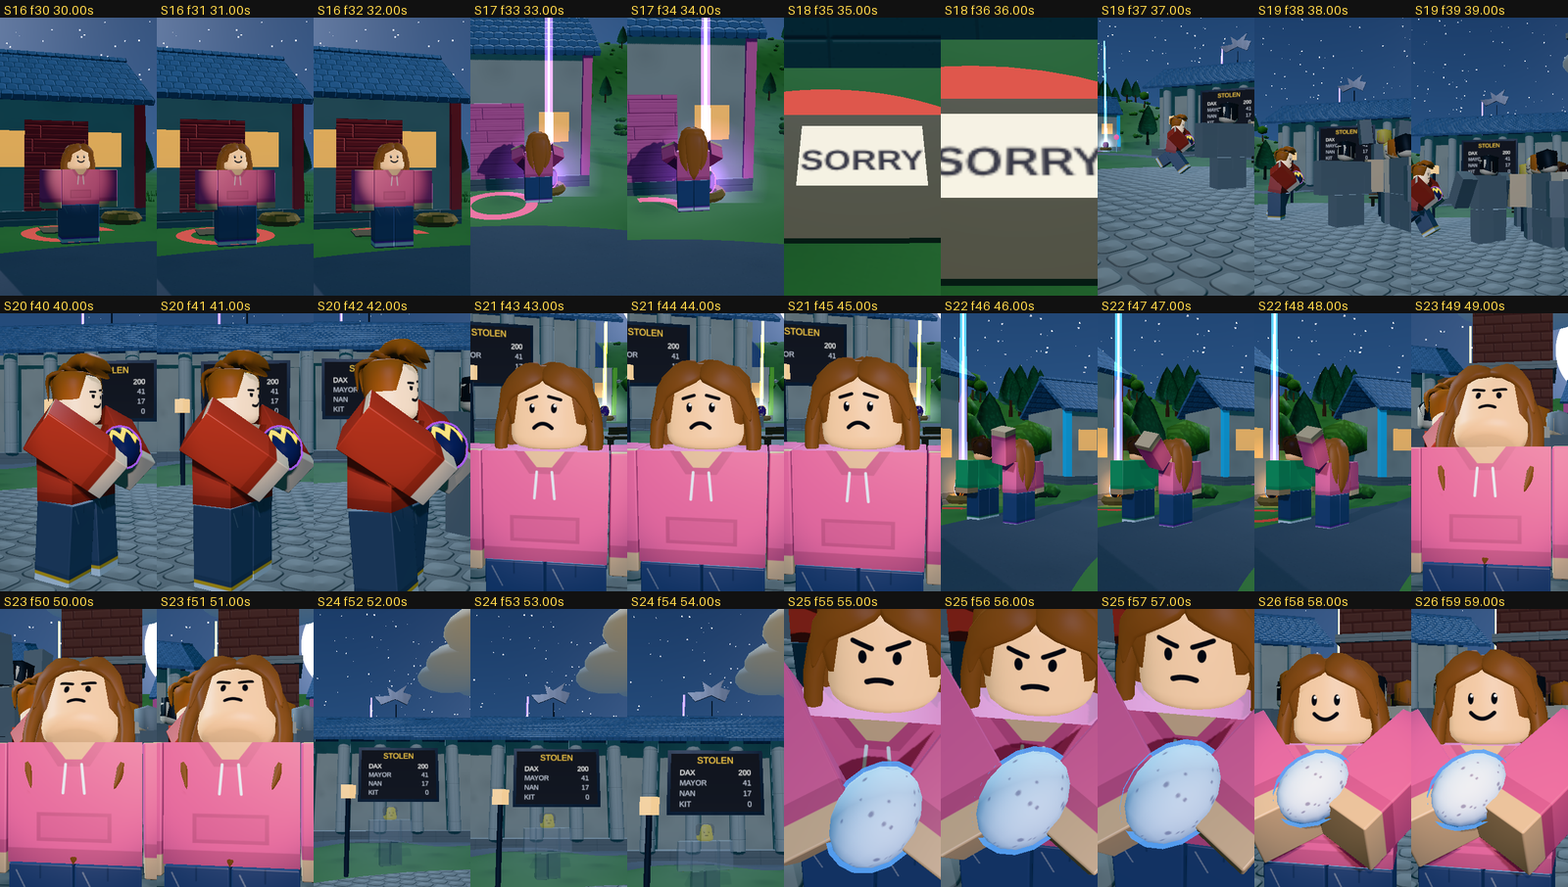
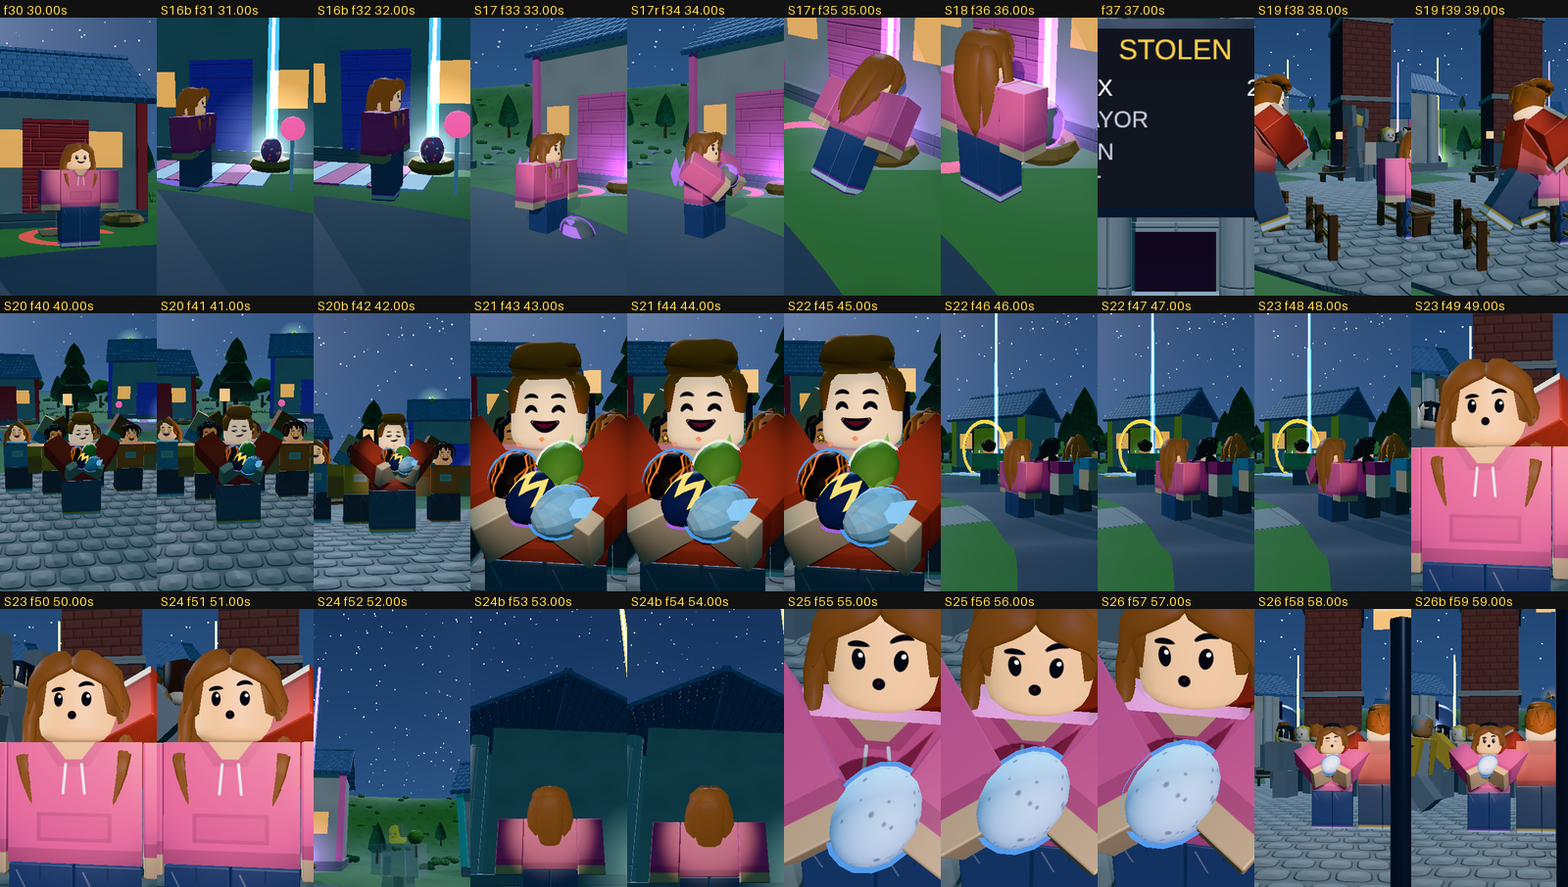
Egg preview fixes: owner shot rules (warnings), 74-shot table, nest rebuild, dragon face/baby, hair clamp; plan PASS; 1 fps preview
Claude-Session: https://claude.ai/code/session_01J6UjxwALwUXzwUnfoeqYWB

diff --git a/stories/egg/world.js b/stories/egg/world.js
@@ -180,8 +180,8 @@ export function build(scene, {P, B, A, M, PR, TR, BI, V, W, look, spec}) {
   const layer = (n, r0, r1, y, size, col, emi, seed) => { const RR = B.rng(seed), gs = [];
     for (let i = 0; i < n; i++) { const a = RR() * Math.PI * 2, r = r0 + RR() * (r1 - r0), g0 = new T.IcosahedronGeometry(size * (.6 + RR() * .7), 2); g0.deleteAttribute('uv'); g0.deleteAttribute('normal'); const g = mergeVertices(g0);
       g.scale(1.7, .42 + RR() * .2, 1.7); g.translate(Math.sin(a) * r, y + RR() * 3, Math.cos(a) * r); gs.push(g); }
-    const m = new T.Mesh((x => { x.computeVertexNormals(); return x; })(mergeGeometries(gs)), new T.MeshLambertMaterial({color: col, emissive: emi, emissiveIntensity: .5})); m.receiveShadow = true; return m; };
-  nest.add(layer(26, 14, 70, -7, 13, cb.palette.grass, '#e8b88a', 21), layer(34, 60, 170, -16, 22, '#fde7d2', '#f0a878', 22), layer(30, 160, 340, -30, 40, '#f6d2c0', '#e89a7a', 23));   // near, mid, far banks
+    const m = new T.Mesh((x => { x.computeVertexNormals(); return x; })(mergeGeometries(gs)), new T.MeshLambertMaterial({color: col, emissive: emi, emissiveIntensity: .22})); m.receiveShadow = true; return m; };
+  nest.add(layer(26, 30, 80, -15, 9, '#ffffff', '#ffe2c4', 21), layer(34, 60, 170, -16, 22, '#fff4ea', '#ffc9a0', 22), layer(30, 160, 340, -30, 40, '#ffe8dc', '#f0a88a', 23));   // white tops, warm sunrise underlight   // near, mid, far banks
   const bowl0 = new T.CylinderGeometry(16, 10, 6, 40, 1, true); bowl0.translate(0, -1.5, 0);
   const bowl = new T.Mesh(bowl0, new T.MeshPhongMaterial({color: '#a8763e', map: M.patternTexture('thatch'), side: T.DoubleSide, shininess: 4})); nest.add(bowl);
   const floorN = new T.Mesh(new T.CircleGeometry(10.5, 40), new T.MeshPhongMaterial({color: '#c9a064', map: M.patternTexture('thatch'), shininess: 4})); floorN.rotation.x = -Math.PI / 2; floorN.position.y = -4.4; nest.add(floorN);

diff --git a/stories/egg/gen.py b/stories/egg/gen.py
@@ -109,21 +109,21 @@ shot('S15b-dawn', on(9, 8), 'wide', 'push', 'bases', 'Gone by morning: an empty 
 kb = B[0]; KIT_B = [kb['front'][0], kb['front'][1]]
 shot('S16-kit', on(10), 'medium', 'push', 'kitbase', 'Then there is Kit, eleven: her base is a mat.', subject='kit', see=['kit'],
      **{'from': cam([KIT_B[0] + kb['n'][0] * 8 + 2, 3.5, KIT_B[1] + kb['n'][1] * 8], [KIT_B[0], 3, KIT_B[1]], 40)}, fit={'actor': 'kit', 'height': .36, 'part': 'full', 'y': .62}, shadowRadius=16)
-b11 = B[11]; WALK11 = bp(11, 4.5, -6)
+b11 = B[11]; WALK11 = bp(11, 3.2, -3.4); KMID = [WALK11[0] + b11['s'][0] * 2.4, WALK11[1] + b11['s'][1] * 2.4]
 shot('S16b-never', on(11, 3), 'wide', 'push', 'bases', 'Kit has never stolen anything: she walks right past a glowing egg.', see=['kit'],
-     **{'from': cam([WALK11[0] + b11['n'][0] * 13 + b11['s'][0] * 6, 5, WALK11[1] + b11['n'][1] * 13 + b11['s'][1] * 6], [B[11]['nest'][0], 2, B[11]['nest'][2]], 46),
-        'to': cam([WALK11[0] + b11['n'][0] * 11.5 + b11['s'][0] * 5.5, 4.6, WALK11[1] + b11['n'][1] * 11.5 + b11['s'][1] * 5.5], [B[11]['nest'][0], 2, B[11]['nest'][2]], 44)}, shadowRadius=24)
+     **{'from': cam([WALK11[0] + b11['n'][0] * 13 + b11['s'][0] * 6, 5, WALK11[1] + b11['n'][1] * 13 + b11['s'][1] * 6], [KMID[0], 2.4, KMID[1]], 46),
+        'to': cam([WALK11[0] + b11['n'][0] * 11.5 + b11['s'][0] * 5.5, 4.6, WALK11[1] + b11['n'][1] * 11.5 + b11['s'][1] * 5.5], [KMID[0], 2.4, KMID[1]], 44)}, shadowRadius=24)
 g5 = B[5]; N5 = g5['nest']; GE = [N5[0] + g5['n'][0] * 7 + 2.5, N5[2] + g5['n'][1] * 7]; K5 = [N5[0] + g5['n'][0] * 2.3, N5[2] + g5['n'][1] * 2.3]
 shot('S17-found', on(12), 'medium', 'push', 'bases', 'She found an egg once: Kit picks the Geode egg out of the grass.', subject='kit', see=['kit'],
      **{'from': cam([GE[0] + 3, 3.2, GE[1] + 6], [GE[0] - .8, 2.2, GE[1]], 40)}, fit={'actor': 'kit', 'height': .4, 'part': 'full', 'y': .6}, shadowRadius=14)
-CK5 = [K5[0] + g5['n'][0] * 2.2 + g5['s'][0] * 4.2, K5[1] + g5['n'][1] * 2.2 + g5['s'][1] * 4.2]
+CK5 = [K5[0] + g5['n'][0] * 6.5 + g5['s'][0] * 8.5, K5[1] + g5['n'][1] * 6.5 + g5['s'][1] * 8.5]
 shot('S17r-return', on(12, 5), 'close', 'push', 'bases', 'She returned it, with a sorry note: the egg back in its nest, then the folded note.', see=['kit'],
-     **{'from': cam([CK5[0], 3.6, CK5[1]], [(N5[0] + K5[0]) / 2, 1.9, (N5[2] + K5[1]) / 2], 38), 'to': cam([CK5[0] - g5['s'][0] * .6, 3.3, CK5[1] - g5['s'][1] * .6], [(N5[0] + K5[0]) / 2, 1.7, (N5[2] + K5[1]) / 2], 36)}, shadowRadius=10)
+     **{'from': cam([CK5[0], 7.2, CK5[1]], [(N5[0] + K5[0]) / 2, 1.6, (N5[2] + K5[1]) / 2], 40), 'to': cam([CK5[0] - g5['s'][0] * 1.2, 6.8, CK5[1] - g5['s'][1] * 1.2], [(N5[0] + K5[0]) / 2, 1.5, (N5[2] + K5[1]) / 2], 38)}, shadowRadius=10)
 shot('S18-zero', on(13), 'insert', 'push', 'square', 'Her score is zero: KIT 0 at the bottom of the scoreboard.', see=[],
      **{'from': cam([NB(20)[0], 6.2, NB(20)[2]], [BOARD[0], 6.6, BOARD[2]], 24), 'to': cam([NB(18)[0], 6.1, NB(18)[2]], [BOARD[0], 6.4, BOARD[2]], 24)}, shadowRadius=12)
 FENCE = [-12, 9]
 shot('S19-vault', F(on(13, 4), -2), 'medium', 'push', 'square', 'It has always been zero: Dax vaults the fence side-on, mid-air, four eggs in his arms.', see=['dax'],
-     **{'from': cam([FENCE[0] + .5, 3.4, FENCE[1] + 12], [FENCE[0] + .5, 3.2, FENCE[1]], 44), 'to': cam([FENCE[0] + .8, 3.4, FENCE[1] + 11], [FENCE[0] + .8, 3.2, FENCE[1]], 44)}, shadowRadius=16)
+     **{'from': cam([FENCE[0] - 2.4, 3.4, FENCE[1] + 11.5], [FENCE[0] + .5, 3.2, FENCE[1]], 46), 'to': cam([FENCE[0] - 2.1, 3.4, FENCE[1] + 10.6], [FENCE[0] + .8, 3.2, FENCE[1]], 46)}, shadowRadius=16)
 DAX1 = [4, 8]
 shot('S20-dax', on(14), 'wide', 'push', 'square', 'Her big brother Dax is number one: kids gather round him on the square.', see=['dax'],
      **{'from': cam([6, 6.5, -7], [4, 3, 9], 48), 'to': cam([5.6, 6, -5.5], [4, 3, 9], 46)}, shadowRadius=26)
@@ -192,16 +192,16 @@ shot('S37a-bell', on(33), 'wide', 'push', 'square', 'The bell rang twelve times:
      **{'from': cam([-4, 15, 24], [0, 3, 0], 46), 'to': cam([-3.6, 14, 22], [0, 3, 0], 44)}, shadowRadius=40)
 shot('S37-down', on(34), 'close', 'push', 'square', 'The shadow came down: Kit looks up in wonder, the shadow crossing her face.', subject='kit', see=['kit'],
      **{'from': cam([-.4, 3.9, 6.6], [0, 4.9, 0], 36)}, fit={'actor': 'kit', 'height': .48, 'part': 'head', 'y': .4}, shadowRadius=10)
-LOWC = [-1.5, .9, 2.6]; LOWT = add(LOWC, [MOON[0] * 50, MOON[1] * 50 + 8, MOON[2] * 50]); MOM37 = add(LOWC, [MOON[0] * 92, MOON[1] * 92 - 4, MOON[2] * 92])
+LOWC = [-1.5, .9, 2.6]; LOWT = add(LOWC, [MOON[0] * 50, MOON[1] * 50 + 8, MOON[2] * 50]); MOM37 = add(LOWC, [MOON[0] * 110, MOON[1] * 110 - 2, MOON[2] * 110])
 shot('S37b-wings', on(34, 4), 'wide', 'heroLow', 'square', 'Its wings were as wide as the street: from Kit\'s spot, her full silhouette against the moon, wings spanning the frame, eyes glowing.', see=['mother'], ground=0,
      **{'from': cam(LOWC, LOWT, 64), 'to': cam([LOWC[0] - .2, .8, LOWC[2] + .4], add(LOWT, [0, 2, 0]), 66)}, shadowRadius=60)
 shot('S38-bird', F(on(35), -2), 'close', 'push', 'square', 'It was not a bird: Kit\'s face lit by two glowing eyes.', subject='kit', see=['kit'],
      **{'from': cam([-6, 4.4, 2.5], [0, 4.5, 0], 36)}, fit={'actor': 'kit', 'height': .48, 'part': 'head', 'y': .4}, shadowRadius=10)
 shot('S39-dragon', F(on(35, 4), 2), 'medium', 'push', 'square', 'It was a dragon. Very, very gently: the mother lowers her head to Kit (the twist; Kit in wonder).', see=['mother', 'kit'],
-     **{'from': cam([-7, 4.5, -20], [-7, 6.5, 0], 56), 'to': cam([-6.5, 4.3, -18.5], [-6.5, 6.3, 0], 54)}, shadowRadius=30)
-LIFT0 = [0, 30, 6]
+     **{'from': cam([-3.5, 4.2, -15.5], [-3.5, 5.2, 0], 58), 'to': cam([-3.3, 4.0, -14.5], [-3.3, 5.0, 0], 56)}, shadowRadius=30)
+LIFT0 = [0, 30, 6]; LIFTK = [LIFT0[0] + 18, LIFT0[1], LIFT0[2]]   # front claws: 18 ahead (she flies east, away from the clock tower)
 shot('S40-lift', on(36, 4), 'close', 'push', 'square', 'It lifted Kit into the clouds: Kit in the mother\'s front claws, the town small below.', see=['kit', 'mother'],
-     **{'from': cam([LIFT0[0] + 25, LIFT0[1] + 3, LIFT0[2] + 4.5], [LIFT0[0] + 18, LIFT0[1] - .5, LIFT0[2]], 50), 'to': cam([LIFT0[0] + 34, LIFT0[1] + 8, LIFT0[2] + 4.5], [LIFT0[0] + 27, LIFT0[1] + 5, LIFT0[2]], 50)}, shadowRadius=40)
+     **{'from': cam([LIFTK[0] - 8, LIFTK[1] + 4.5, LIFTK[2] + 3.5], [LIFTK[0] + 1.5, LIFTK[1] - .5, LIFTK[2]], 50), 'to': cam([LIFTK[0] - 8 + 8.5, LIFTK[1] + 4.5 + 5.5, LIFTK[2] + 3.5], [LIFTK[0] + 1.5 + 8.5, LIFTK[1] - .5 + 5.5, LIFTK[2]], 50)}, shadowRadius=40)
 # B8 second surprise ---------------------------------------------------------------------------------------------------------------
 N = NEST; FL = N[1] - 4.4   # nest floor
 RING = ['kit', 'dax', 'lead', 'little', 'r1', 'r2', 'r3', 'r4', 'r5']; RR = 6.2
@@ -209,9 +209,9 @@ SEAT = {n: [N[0] + RR * math.sin(math.radians(180 + 40 * k)), FL, N[2] + RR * ma
 SEAT = {n: [round(v, 3) for v in p] for n, p in SEAT.items()}
 seat_yaw = lambda n: yaw_to(SEAT[n], N)
 shot('S41-nest', on(37), 'wide', 'drone', 'nest', 'Money shot: drone low over the sunrise clouds onto a woven nest the size of the town, kids and baby dragons in a ring, the mother curled outside.', see=[], spectacle=True, look='goldenHour',
-     path=[[N[0] + 30, N[1] + 6, N[2] + 120], [N[0] + 18, N[1] + 6, N[2] + 74], [N[0] + 8, N[1] + 9, N[2] + 34]], targets=[[N[0], N[1] - 4, N[2] + 1], [N[0], N[1] - 4, N[2] + 1]], **{'from': {'fov': 50}}, shadowRadius=60)
+     ease='linear', path=[[N[0] + 30, N[1] + 8, N[2] + 120], [N[0] + 18, N[1] + 10, N[2] + 72], [N[0] + 8, N[1] + 12.5, N[2] + 38]], targets=[[N[0], N[1] - 4, N[2] + 1], [N[0], N[1] - 4, N[2] + 1]], **{'from': {'fov': 50}}, shadowRadius=60)
 shot('S41b-ring', on(38), 'medium', 'push', 'nest', 'Every missing kid was in it: the ring of kids, a baby dragon in every lap.', see=['little', 'lead', 'kit'], look='goldenHour',
-     **{'from': cam([N[0] + 2, N[1] + 10, N[2] + 17], [N[0], FL + 1, N[2] + 1], 50), 'to': cam([N[0] + 1.6, N[1] + 9, N[2] + 15.5], [N[0], FL + 1, N[2] + 1], 50)}, shadowRadius=20)
+     **{'from': cam([N[0] + .5, N[1] + 5.5, N[2] + 12.2], [N[0], FL + 1.4, N[2] - 2], 50), 'to': cam([N[0] + .4, N[1] + 5.2, N[2] + 11.6], [N[0], FL + 1.4, N[2] - 2], 50)}, shadowRadius=20)
 DAXN = SEAT['dax']
 shot('S42-daxnest', F(on(38, 6), -2), 'close', 'push', 'nest', 'Even Dax: a hatchling asleep on his head.', subject='dax', see=['dax'], look='goldenHour',
      **{'from': cam(add(DAXN, [(N[0] - DAXN[0]) * .7, 3.4, (N[2] - DAXN[2]) * .7]), add(DAXN, [0, 2.2, 0]), 40)}, fit={'actor': 'dax', 'height': .55, 'part': 'full', 'y': .5, 'h': 3.6}, shadowRadius=12)
@@ -233,7 +233,7 @@ shot('S46b-sneeze', on(43, 3), 'close', 'push', 'nest', 'A tiny dragon sneezed o
 shot('S47a-mother', on(44), 'wide', 'push', 'nest', 'The mother was not taking thieves: she lies curled round the outside of the nest.', see=['mother'], look='goldenHour',
      **{'from': cam([N[0] + 34, N[1] + 22, N[2] + 46], [N[0] - 6, N[1], N[2]], 50), 'to': cam([N[0] + 30, N[1] + 20, N[2] + 42], [N[0] - 6, N[1], N[2]], 48)}, shadowRadius=60)
 shot('S47b-sitters', on(45), 'medium', 'push', 'nest', 'She was taking babysitters: kids with sleeping babies, her head resting on the rim behind them.', see=['mother', 'little'], look='goldenHour',
-     **{'from': cam([N[0] + 3, N[1] + 5.5, N[2] + 22], [N[0] - 1, FL + 3, N[2] + 4], 48), 'to': cam([N[0] + 2.6, N[1] + 5.2, N[2] + 20.5], [N[0] - 1, FL + 3, N[2] + 4], 48)}, shadowRadius=30)
+     **{'from': cam([N[0] - 4, N[1] + 3.5, N[2] + 11.5], [N[0] + 2, FL + 4, N[2] - 10], 50), 'to': cam([N[0] - 3.7, N[1] + 3.4, N[2] + 10.9], [N[0] + 2, FL + 4, N[2] - 10], 50)}, shadowRadius=30)
 # B9 flip --------------------------------------------------------------------------------------------------------------------------
 shot('S48-sunrise', on(46), 'wide', 'crane', 'square', 'Dax came home the next morning: dragons fly in over the square at sunrise.', see=['dax'], look='goldenHour',
      ease='inOutSine', **{'from': cam([3, 5, -8], [0, 16, 30], 52), 'to': cam([3, 7.5, -6.5], [0, 18, 30], 51)}, shadowRadius=60)
@@ -253,7 +253,7 @@ shot('S51-rhyme', on(51), 'wide', 'drone', 'square', 'And at midnight everybody 
 
 # ---- cast ----------------------------------------------------------------------------------------------------------------------
 t = {s['id']: s['at'] for s in S}
-def marks(*m): return [[round(a, 3), p] for a, p in m]
+def marks(*m): return [[round(a, 3), p] for a, p in sorted(m, key=lambda x: x[0])]
 kitE = lambda w: f'egg:plain:{w}'
 def sqy(x, z, y=0): return {'at': 'square', 'offset': [x, y, z]}
 face_cam = lambda p, c: yaw_to(p, c)
@@ -266,14 +266,13 @@ FACEMAP = [[12, 'kit', 'polite'], [15, 'dax', 'laugh'], [16, 'kit', 'polite'], [
 SNEEZE = round(on(43, 6) + .08, 3)
 Q5, CUT0 = Q(5), [Q(4)[0] + b9['s'][0] * 3.2, Q(4)[1] + b9['s'][1] * 3.2]
 N9 = [b9['nest'][0], b9['nest'][2]]
-LIFTK = [LIFT0[0] + 18, LIFT0[1], LIFT0[2]]   # front claws: 18 ahead (she flies east, away from the clock tower)
 _c = [DRONE['path'][1][i] + (DRONE['path'][2][i] - DRONE['path'][1][i]) * .43 for i in range(3)]   # the drone camera near t = 1.2 s
 MOM0 = [round(_c[i] + MOON[i] * 320 - ([PERP[0], 0, PERP[1]][i]) * 70 * 1.2, 2) for i in range(3)]   # crosses the moon at ~1.2 s
 cast = {
   'kit': {'style': 'v2', 'troupe': 'SECOND', 'role': 'Kit', 'outfit': {'recipe': 'hoodie', 'main': '#ff7aa8', 'accent': '#ffffff', 'legs': '#4a5a80', 'trim': '#9b59b6'},
     **sq(*K0), 'yaw': yaw_to(K0, [K0[0] - D2[0], K0[1] - D2[1]]),
     'marks': marks((0, {**sq(*K0), 'yaw': yaw_to(K0, [K0[0] - D2[0], K0[1] - D2[1]])}), (t['S16-kit'], {'at': 'kitBase', 'yaw': yaw_to(KIT_B, [KIT_B[0] + kb['n'][0], KIT_B[1] + kb['n'][1]])}),
-      (t['S16b-never'], {**sq(*WALK11), 'yaw': yaw_to([0, 0], b11['s']), 'travel': {'dir': b11['s'], 'speed': 1.7, 'max': 5}}),
+      (t['S16b-never'], {**sq(*WALK11), 'yaw': yaw_to([0, 0], b11['s']), 'travel': {'dir': b11['s'], 'speed': 1.6, 'max': 4.5}}),
       (t['S17-found'], {**sq(GE[0] - 1.3, GE[1]), 'yaw': 90}), (t['S17r-return'], {**sq(*K5), 'yaw': yaw_to(K5, [N5[0], N5[2]])}),
       (t['S18-zero'], {**sq(-8, 9), 'yaw': 0}), (t['S22-queue'], {**sq(*Q5), 'yaw': yaw_to(Q5, N9)}), (t['S23-notice'], {**sq(*K2), 'yaw': 0}),
       (t['S24b-vane'], {**sq(*KV), 'yaw': yaw_to(KV, [VANE[0], VANE[2]])}), (t['S25-cold'], {**sq(*K2), 'yaw': 0}),
@@ -307,10 +306,10 @@ cast = {
     'tools': [[0, 'egg:storm'], [t['S10-wins'], EGGS4], [t['S41-nest'], None]]},
   'lead': {'style': 'v2', 'troupe': 'LEAD', 'role': 'thief', 'outfit': {'recipe': 'hoodie', 'main': '#3fae6a', 'accent': '#ffffff', 'legs': '#3a4a6a', 'trim': '#2e7a4a'},
     **sq(10, 10), 'yaw': 0,
-    'marks': marks((0, {**sq(-30, 20), 'yaw': 0}), (t['S06-run'], {'at': 'base8', 'offset': [0, 0, 0], 'yaw': 75, 'travel': {'dir': [.966, .259], 'speed': 5.5}}),
+    'marks': marks((0, {**sq(-30, 20), 'yaw': 0}), (t['S06-run'], {'at': 'base8', 'offset': [-math.sin(math.radians(255)) * 8, 0, -math.cos(math.radians(255)) * 8], 'yaw': 75, 'travel': {'dir': [.966, .259], 'speed': 5.5}}),
       (t['S08-steal'], {'at': 'base3', 'offset': [B[3]['s'][0] * 3.2 - B[3]['n'][0] * 2.6, 0, B[3]['s'][1] * 3.2 - B[3]['n'][1] * 2.6], 'yaw': yaw_to([0, 0], [B[3]['n'][0], B[3]['n'][1]])}),
       (t['S09-board'], {**sq(*LEADW), 'yaw': 28.6}), (t['S10-wins'], {**sq(-30, 20), 'yaw': 0}),
-      (t['S34-middle'], {**sq(9.5, -2), 'yaw': yaw_to([9.5, -2], [0, 0])}), (t['S41-nest'], SEATM('lead'))),
+      (t['S34-middle'], {**sq(9.5, -2), 'yaw': yaw_to([9.5, -2], [0, 0])}), (t['S36-holds'], {**sq(-50, 50), 'yaw': 0}), (t['S41-nest'], SEATM('lead'))),
     'keys': [[0, 'eggRun'], [t['S08-steal'], 'eggHold'], [t['S09-board'], 'raise'], [t['S10-wins'], 'idle'], [t['S35c-drop'] - .3, 'point'], [t['S41-nest'], 'sit', {'ground': True}]],
     'faces': [[0, 'smug'], [t['S35b-scream'], 'scream'], [t['S41-nest'], 'smile']],
     'tools': [[0, 'egg:ember'], [t['S08-steal'], 'egg:moss'], [t['S10-wins'], None]]},
@@ -332,7 +331,7 @@ cast = {
     'colors': {'body': '#6b4fb8', 'dark': '#4a3486', 'belly': '#ffd27a', 'horn': '#fff3d6', 'wing': '#e8794a', 'wingDk': '#b8512e', 'eye': '#7affe4'},
     'marks': marks((0, {'origin': MOM0, 'yaw': yaw_to([0, 0], PERP), 'travel': {'dir': PERP, 'speed': 70}}), (2.6, {'origin': [0, 400, -600], 'yaw': 0}),
       (t['S29b-shadow'] + 1.5, {'origin': [31.4 - 55, 60, 7.6 + 10], 'yaw': 100, 'travel': {'dir': [.98, -.18], 'speed': 70}}), (t['S30-bed'], {'origin': [0, 400, -600], 'yaw': 0}),
-      (t['S37-down'], {'origin': [MOM37[0] + .5 * 6.6, MOM37[1] + 2, MOM37[2] - .866 * 6.6], 'yaw': yaw_to(MOM37, LOWC), 'travel': {'dir': [-.5, .866], 'speed': 5, 'climb': -1.5}}),
+      (t['S37-down'], {'origin': [MOM37[0] + .5 * 6.6, MOM37[1] + 2, MOM37[2] - .866 * 6.6], 'yaw': yaw_to(MOM37, LOWC) + 30, 'travel': {'dir': [-.5, .866], 'speed': 5, 'climb': -1.5}}),
       (t['S38-bird'], {'origin': [-54, 0, 0], 'yaw': 90}),
       (t['S40-lift'], {'origin': LIFT0, 'yaw': 90, 'travel': {'dir': [1, 0], 'speed': 4, 'climb': 2.5}}),
       (t['S41-nest'], {'origin': [N[0] + 24, N[1] - 6, N[2] + 6], 'yaw': 180}), (t['S44a-cold'], {'origin': [0, 400, -600], 'yaw': 0}), (t['S44b-gold'], {'origin': [N[0] + 24, N[1] - 6, N[2] + 6], 'yaw': 180}),
@@ -416,8 +415,8 @@ crowds = [
   {'id': 'town', 'count': 30, 'centre': [4, -10], 'radius': 9, 'mode': 'ambient', 'seed': 4, 'spacing': 1.8, 'clear': [[-2.5, 7, 2.4], [5, 5, 2.4], [-5, 4, 2.4], [1, 3, 2.4], [0, -22, 6]], 'visible': [[0, True], [t['S14a-minute'], False], [t['S16-kit'], True], [t['S20-dax'], False], [t['S22-queue'], True], [t['S28-greedy'], False]]},
   {**POTATO, 'visible': [[0, False], [t['S14-potato'], True], [t['S15a-claws'], False], [t['S44a-cold'], True], [t['S44b-gold'], False]], 'clear': [[1.7, 12, 2], [-1.7, 12, 2], [0, 17, 4.5], [3, -15, 4], [3, -11, 4]]},
   {'id': 'ring', **RINGC, 'mode': 'ambient', 'visible': [[0, False], [t['S34-middle'], True], [t['S37a-bell'], False]]},
-  {'id': 'ringUp', **RINGC, 'mode': 'lookUp', 'visible': [[0, False], [t['S37a-bell'], True], [t['S39-dragon'], False]]},
-  {'id': 'runA', 'count': 14, 'centre': [-16, -4], 'radius': 5, 'mode': 'panic', 'dir': PERP, 'at': 0, 'seed': 7, 'visible': [[0, True], [t['S02-kit'], False]]},
+  {'id': 'ringUp', **RINGC, 'mode': 'lookUp', 'visible': [[0, False], [t['S37a-bell'], True], [t['S37b-wings'], False]]},
+  {'id': 'runA', 'count': 14, 'centre': [-2, -10], 'radius': 5, 'mode': 'panic', 'dir': PERP, 'at': 0, 'seed': 7, 'visible': [[0, True], [t['S02-kit'], False]]},
   {'id': 'runB', 'count': 12, 'centre': [-12, 2.5], 'radius': 3, 'mode': 'panic', 'dir': [1, 0], 'at': t['S23-notice'] - .3, 'seed': 8, 'visible': [[0, False], [t['S23-notice'], True], [t['S24-roofs'], False]]},
   {'id': 'runC', 'count': 12, 'centre': [-12, 2.5], 'radius': 3, 'mode': 'panic', 'dir': [1, 0], 'at': t['S26-still'] - .3, 'seed': 18, 'visible': [[0, False], [t['S26-still'], True], [t['S27-still'], False]]},
   {'id': 'runD', 'count': 14, 'centre': [-14, 3], 'radius': 4, 'mode': 'panic', 'dir': [1, 0], 'at': t['S27-still'] - .5, 'seed': 28, 'visible': [[0, False], [t['S27-still'], True], [t['S28-greedy'], False]]},
@@ -427,7 +426,7 @@ crowds = [
 effects = [
   {'type': 'shake', 'at': round(on(24, 3) + .2, 2), 'dur': .5, 'amp': .08},
   {'type': 'flash', 'at': round(on(33, 4), 2), 'dur': .3, 'color': '#fff6e0'},
-  {'type': 'particles', 'preset': 'dust', 'origin': {'anchor': 'square', 'offset': [0, .5, 0]}, 'count': 120, 'at': on(34), 'dur': 3},
+  {'type': 'particles', 'preset': 'dust', 'origin': {'anchor': 'square', 'offset': [0, .5, 0]}, 'count': 120, 'at': on(34), 'dur': 1.2},
   {'type': 'particles', 'preset': 'sparkle', 'origin': add(KITN, [0, 1.7, .9]), 'count': 50, 'at': round(on(43, 2), 2), 'dur': 1.0},
   {'type': 'particles', 'preset': 'sparkle', 'origin': [GL[0], GL[1] + .5, GL[2]], 'count': 40, 'at': SNEEZE, 'dur': 1.2},
 ]

diff --git a/PROGRESS.md b/PROGRESS.md
@@ -880,3 +880,65 @@ Three weakest things:
 3. Assets: dragon face (brow ridge, eyes, snout) + own colour; `buildDragon({baby: true})` hatchling proportions (head ≥ 40 %); a real bed; a soft gold-orange feather; rooftop nests; cloudtop nest (biome, layered clouds, woven nest, ring of seated kids, mother curled outside); mailbag eggs; a door that slams.
 4. Hair: long v4 styles clamp lock tips outside the torso box (opt-in for v4 only), plus a pure test.
 5. C: 1 fps preview → `review/egg/preview/`, `v2:plan` 0 errors + warnings listed, three weakest per sheet, commit/push/PR, send the sheets. No animatic.
+
+### Egg preview fixes: report (2026-11-14)
+**Built.**
+- **A (season warnings, pure, `tests/v2/shotrules.test.js`).** All live in `engine/seasoncheck.js`:
+  - `staticShotIssue`: no cast actor in frame → insert ≤ 1.5 s only;
+  - `clockBoardIssues`: ≤ 3 clock shots, each ≤ 1.5 s; ≤ 3 scoreboard shots;
+  - `holdIssues`: ≤ 3.0 s, except B6 and the money shot; the final shot's mandated tail doesn't count;
+  - `crowdCover`: the union area of crowd members nearer than the subject (or 12 units) ≤ 15 %;
+  - `moodIssues`: the `faceMap` from `gen.py`; Kit never angry or rage.
+  - `seasonMeasure` now also returns crowd boxes, the subject distance, and whether each object faces the camera and is visible.
+- **B.** `stories/egg/gen.py` rewritten: 74 shots, 25 cast (7 runners), and the line-by-line mood map. In `world.js`:
+  - base 10 has a hinged door that slams and a lock ring that fills round the door frame;
+  - a red-pulsing hot egg tossed away (S03b); rooftop nests; a window under the board;
+  - the vault fence; the dawn base with one cold egg; the grass egg and the returned note;
+  - bigger moonlit claw marks; a shadow-sweep spotlight (S29b);
+  - a real bed and a soft gold-orange feather 5.6 long (Kit is 4.35);
+  - the cloud nest rebuilt: three cloud layers, a woven thatch bowl with 72 crossed sticks, kids seated in a ring with hatchlings in their laps, the mother curled outside. The nest set is shown only in nest shots.
+- **Dragon** (opt-in): `face: 'v2'` (white eye, glowing iris, slit pupil, shine, brow ridge, nostril bumps); `baby` (head 61 % of body height, test ≥ 40 %); a `curl` state. The mother has her own colours (violet, gold, copper).
+- **Other assets:** tool `eggs:a,b,c,d` (an armful); accessory `mailBagEggs`; poses `bow` and `sitEgg`; crowd mode `sit` + `lapEggs` + an `expressions` timeline; `hatchlingScale(…, baby)`.
+- **Hair clipping bug:** pure `clampOutsideTorso` in `hair4.js`. Before the fix, 10 v4 styles had vertices inside the torso box (long_braids 480, long_layered 143, sleek_long 131, wavy_bob 112, low_twintails 86, …). Now 0 for every style at hero and mid tiers (`tests/v2/eggfix.test.js`).
+
+**Checks.**
+- `v2:plan` **PASS**: 0 errors, 36 warnings. 0 overlaps; every egg shot passes the size check (S41 is the tightest at 4.3 %).
+- Crowd cover ≤ 15 % in every shot (S01 was 47.7 %; `runA` moved).
+- Clock: S03, S29, S51. Featured board: S09, S18, S50.
+- `v2:test` 93 node + 51 python OK. `npm test` 0. "Nobody" 11/11 byte-identical (`dragon.js` changed).
+- **Owner-rule warnings that remain** (forced by the cut grid, not fixable without moving cuts off phrase onsets):
+  - S15a claws 1.93 s (the line has no onset inside, so the minimum is 1.92);
+  - S15b dawn base is a static wide (no person, by design);
+  - S51 drone ends on a 7 % glimpse of the clock face for 4.8 s;
+  - held framings: S22 3.23 s, S29b 3.33 s, S44a 3.37 s (no phrase onset inside the line);
+  - mean shot 1.94 s (target 2.2–3.0): the ≤ 3 s rule needs 74 cuts.
+- The rest of the 36 warnings are "see not in frame by frame 6" and "wide with no tagged character in the foreground" notes.
+
+**Decisions.**
+- Scoreboard = featured at ≥ 20 % of frame height; background sightings at 10–18 % are in `plan.json` stats. The clock stays strict (any face ≥ 3 %).
+- S12 mailman is a full-figure "close" (fit ≥ 45 %) because three mediums in a row break the same-size rule.
+- The S13 mayor is 1.77 s and the S29 clock is 1.25 s: beats are only allowed before 20 s, and the minimum shot length is 1.2 s.
+- S44a (flashback) is tagged `loc: nest` + `flashback` so the match cut can stay a medium/insert instead of forcing a wide.
+- Moon moved to az 110°, el 18° so it clears the tower and bases from Kit's spot.
+
+**Three weakest things** (`review/egg/preview/`; the owner decides):
+- **`preview-1fps.png` (0–29 s):**
+  1. The S03b toss and S07 dive fall between the 1 fps samples (only one frame each).
+  2. S05: the kid's head is cut by the top edge.
+  3. S14 hot potato: dark, with the flying eggs small.
+- **`-2` (30–59 s):**
+  1. S18: the board crop shows STOLEN/X/YOR, and the "KIT 0" row is cut.
+  2. S22 queue: all backs, so Kit's polite face doesn't read.
+  3. S24b: the back of Kit's head fills the frame; the vane is a sliver.
+- **`-3` (60–89 s):**
+  1. S29b: the shadow sweep isn't visible at 1 fps.
+  2. S31b: the feather is low-contrast next to Kit.
+  3. S32b: Kit is cut at the frame edge while taking the egg.
+- **`-4` (90–119 s):**
+  1. S37b: the mother reads as a vertical "totem" (neck + legs) more than a wingspan.
+  2. S39: her head is a dark block; it doesn't read as "lowering gently".
+  3. S41 clouds are flat peach, like sand.
+- **`-5` (120–146 s):**
+  1. S48b: Dax among huge back spikes; the dragon under him doesn't read.
+  2. S50: Kit's hair covers half the board.
+  3. S51a: sitting kids crowd the bottom; the gold lap eggs are small.
